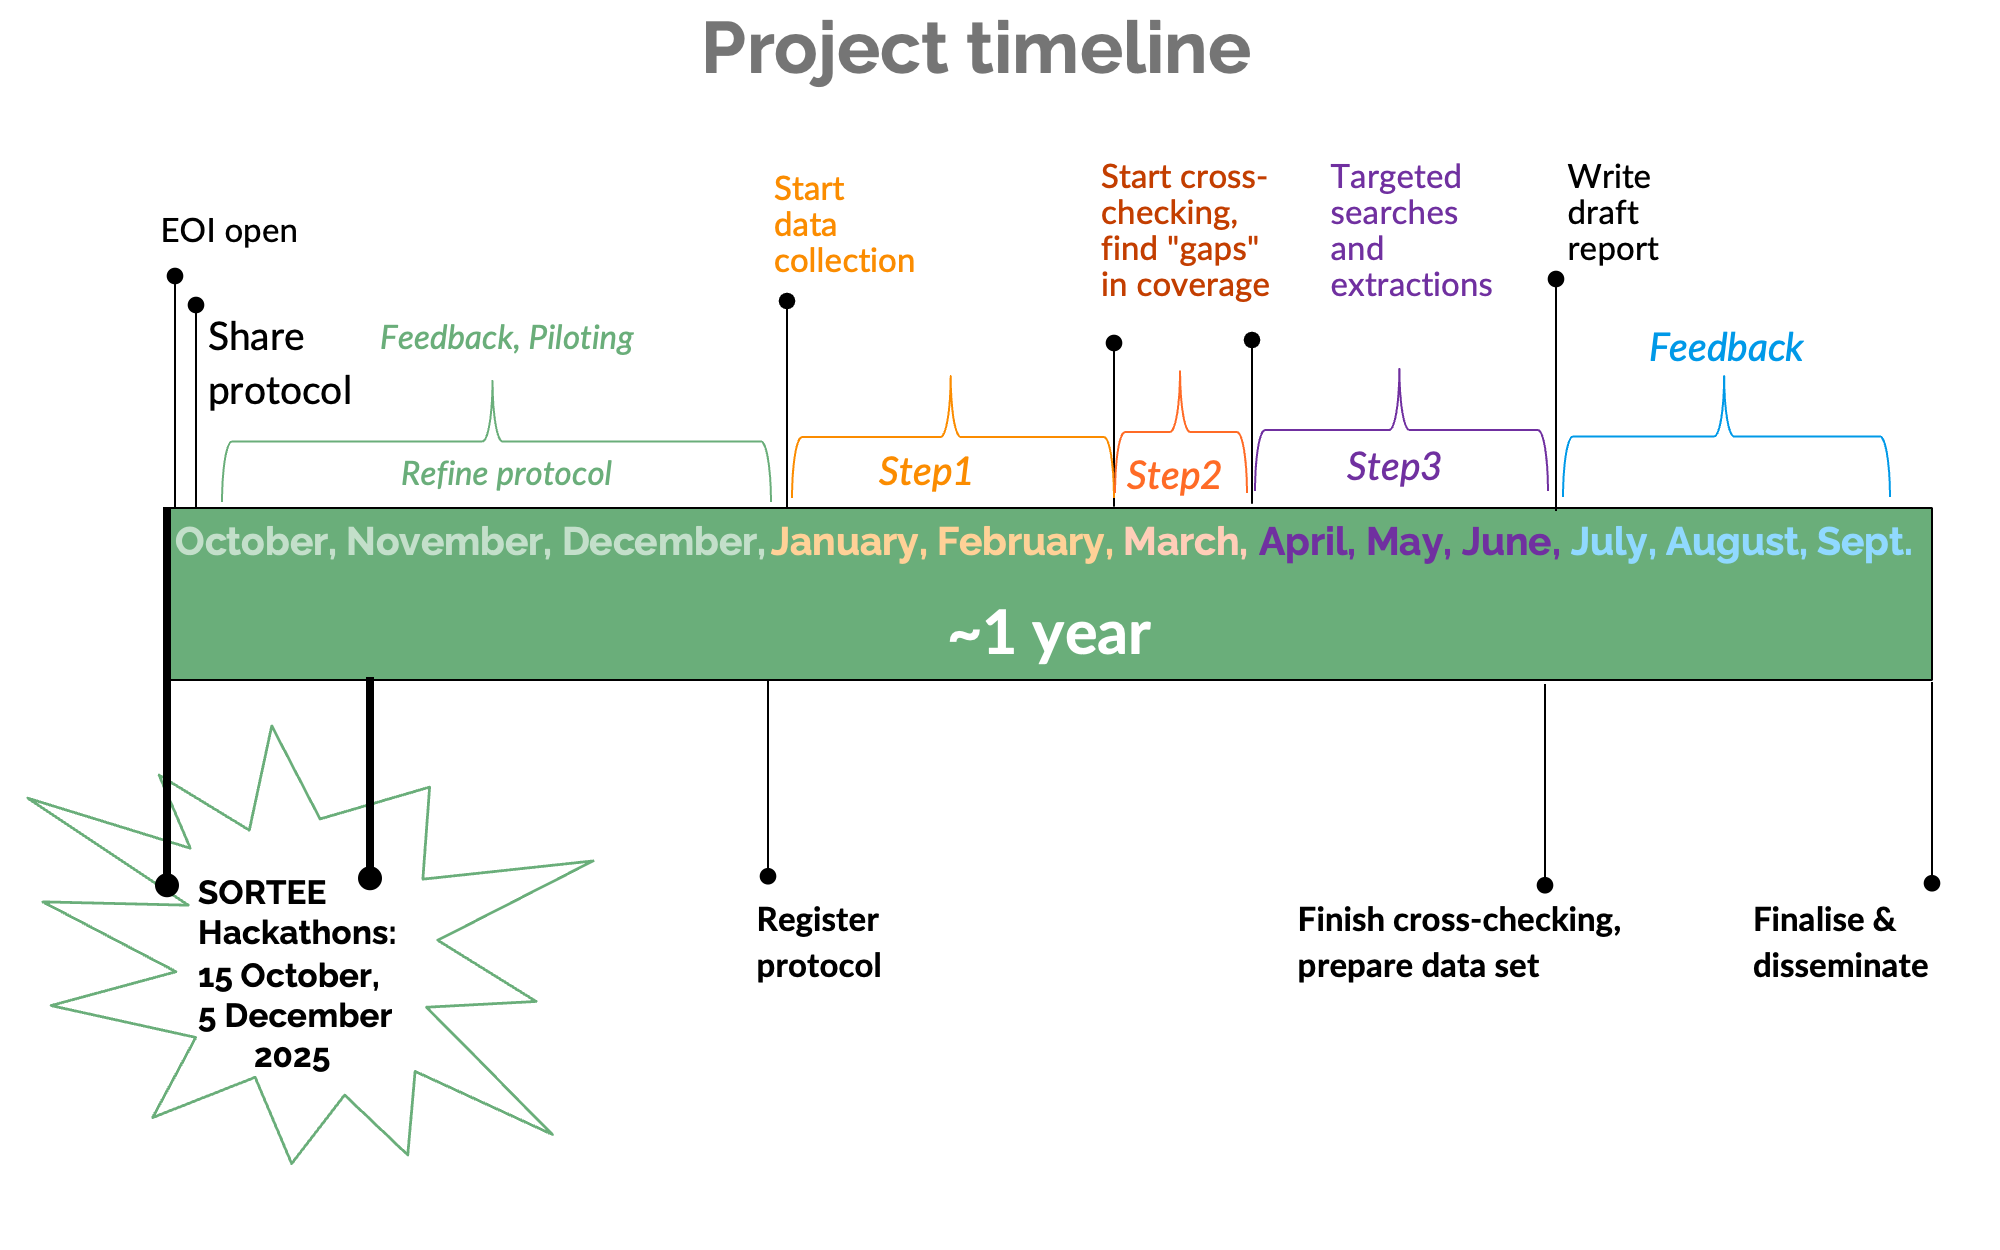
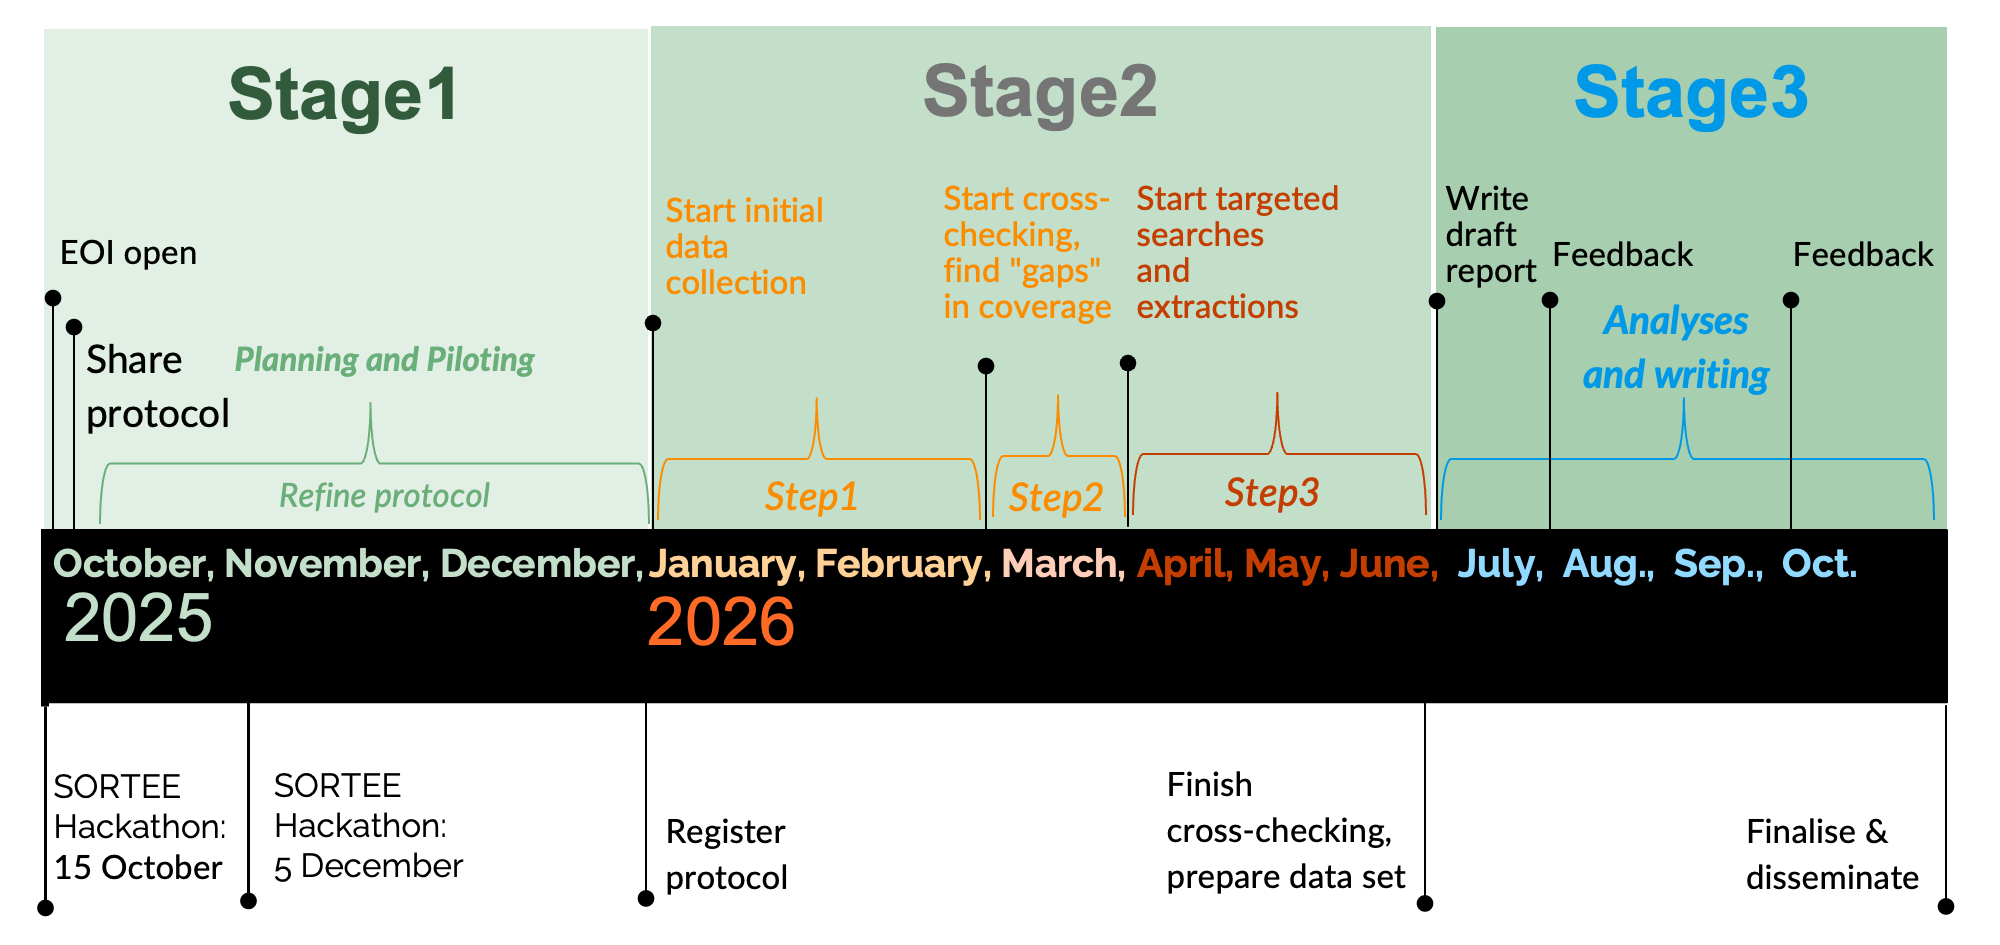
added links to the protocol

diff --git a/README.md b/README.md
@@ -23,7 +23,7 @@ This project aims to fill a key gap by systematically collecting and curating ba
 
 ## 💎 Team  
 * We have a diverse and open team of early- and mid-career researchers contributing to this project.   
-* Please get in touch if you are interested in contributing to this and/or future projects.   
+* Please get in touch if you are interested in contributing to this and/or future projects (see our details below).   
 
 ## 💛 Contributing  
  
@@ -58,13 +58,13 @@ List of international societies from an earlier SORTEE project is available [her
 Registering protocol and starteing data collection.   
 
 ## 🚀 Protocol   
-Final protocol will be publicly archived on OSF.org [LINK to be added].   
+Final protocol is now publicly registered on [OSF](https://doi.org/10.17605/OSF.IO/E5G9J).   
 
 ## 🚚 Supporting information 
-Supporting information for this project will be publicly available at [LINK to be added].    
+Supporting information for this project will be publicly available at project completion[LINK to be added later].    
 
 ## 💻 Data and code files      
-A copy of our final data and code files will be publicly available at [LINK to be added].     
+A copy of our final data and code files will be publicly available at project completion [LINK to be added later].     
 
 ## ⏰ Code of Conduct   
 We expect all project contributors to familiarize themselves and follow our [Code of Conduct](/CODE_OF_CONDUCT.md).      
